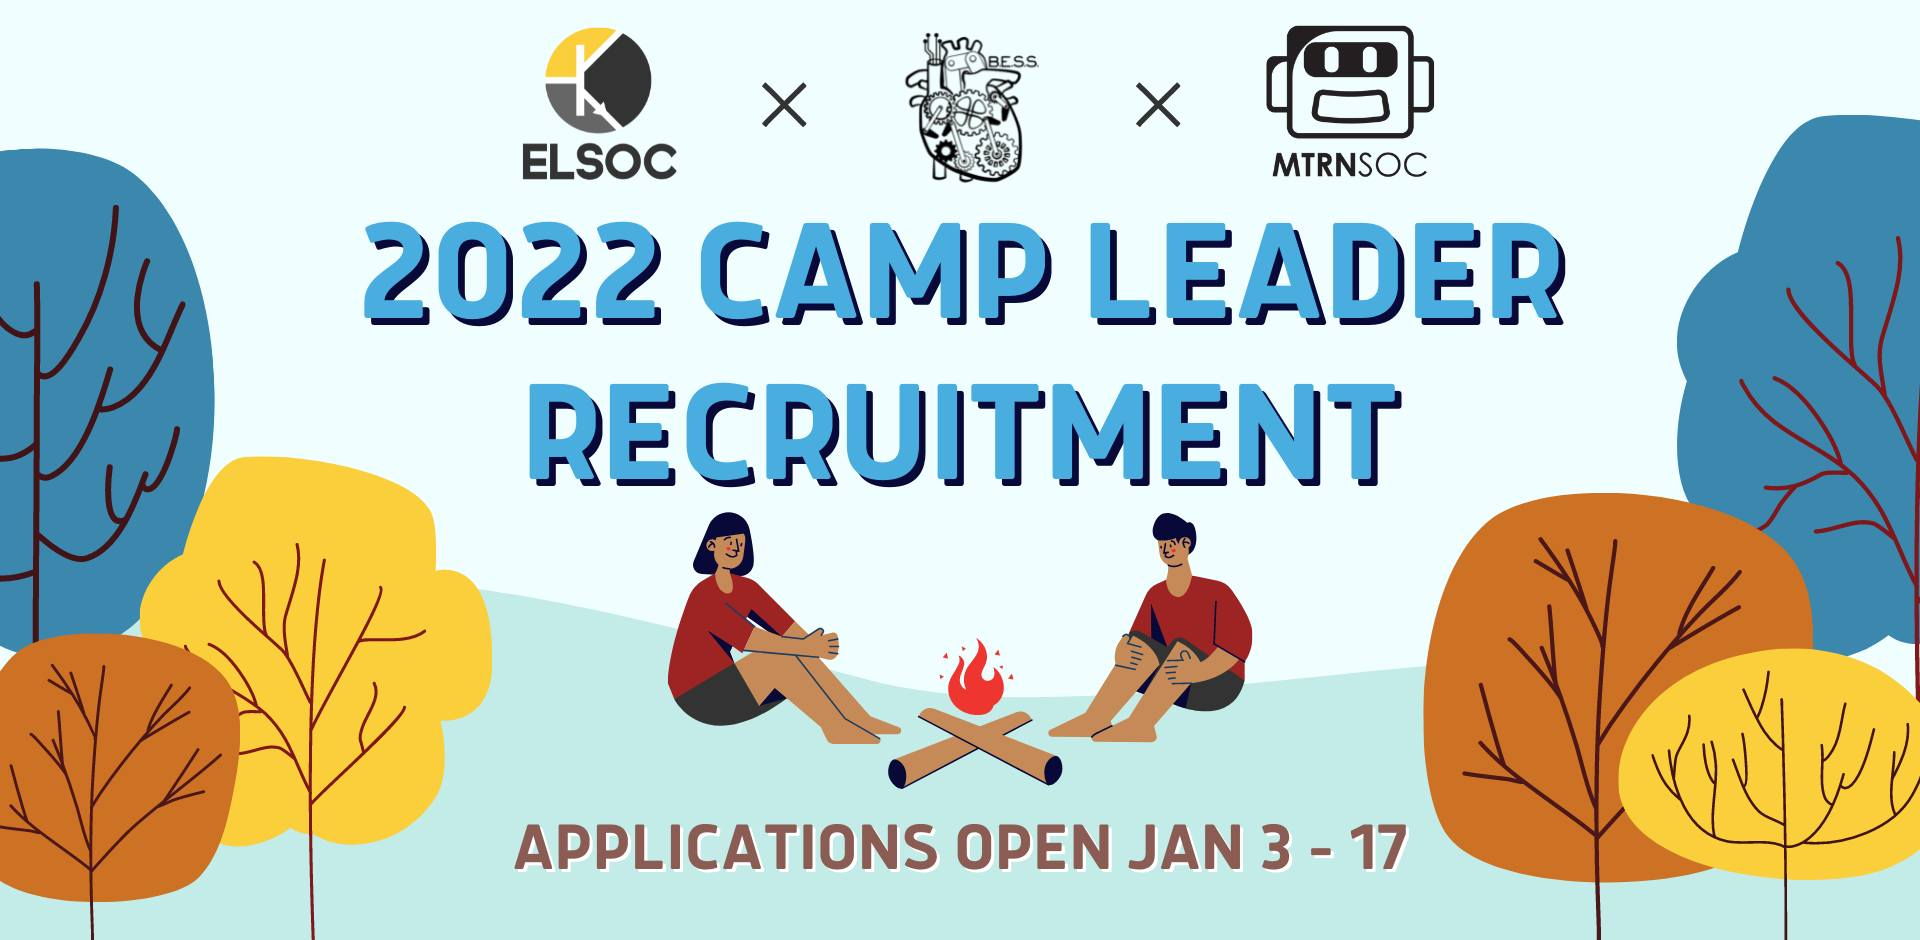
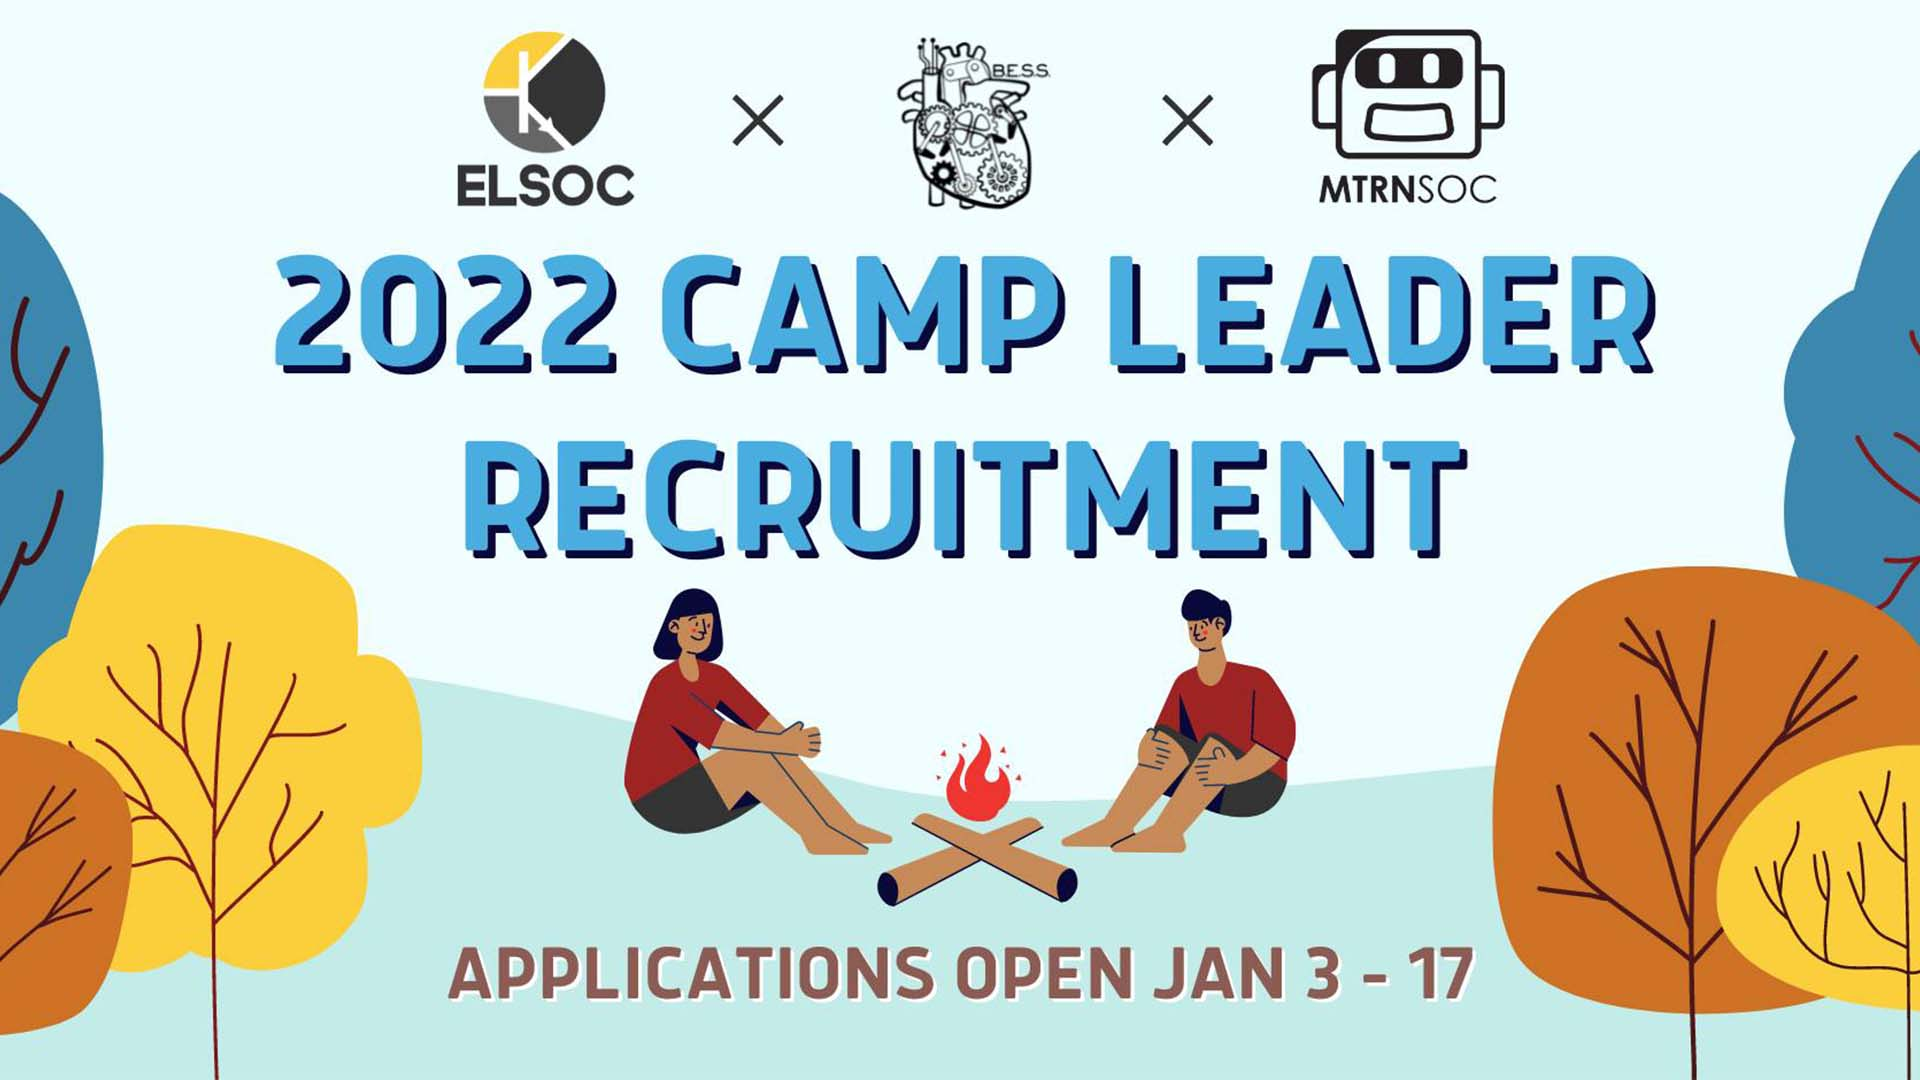
Fix image aspect ratio

diff --git a/components/Events/OurEvents.tsx b/components/Events/OurEvents.tsx
@@ -4,7 +4,7 @@ import Link from "next/link";
 // TODO: Arrow functionality & movement
 
 const getEventsToDisplay = () => {
-  return [...eventData].slice(1, 4);
+  return [...eventData].slice(0, 3);
 };
 
 export default function OurEvents(): JSX.Element {
